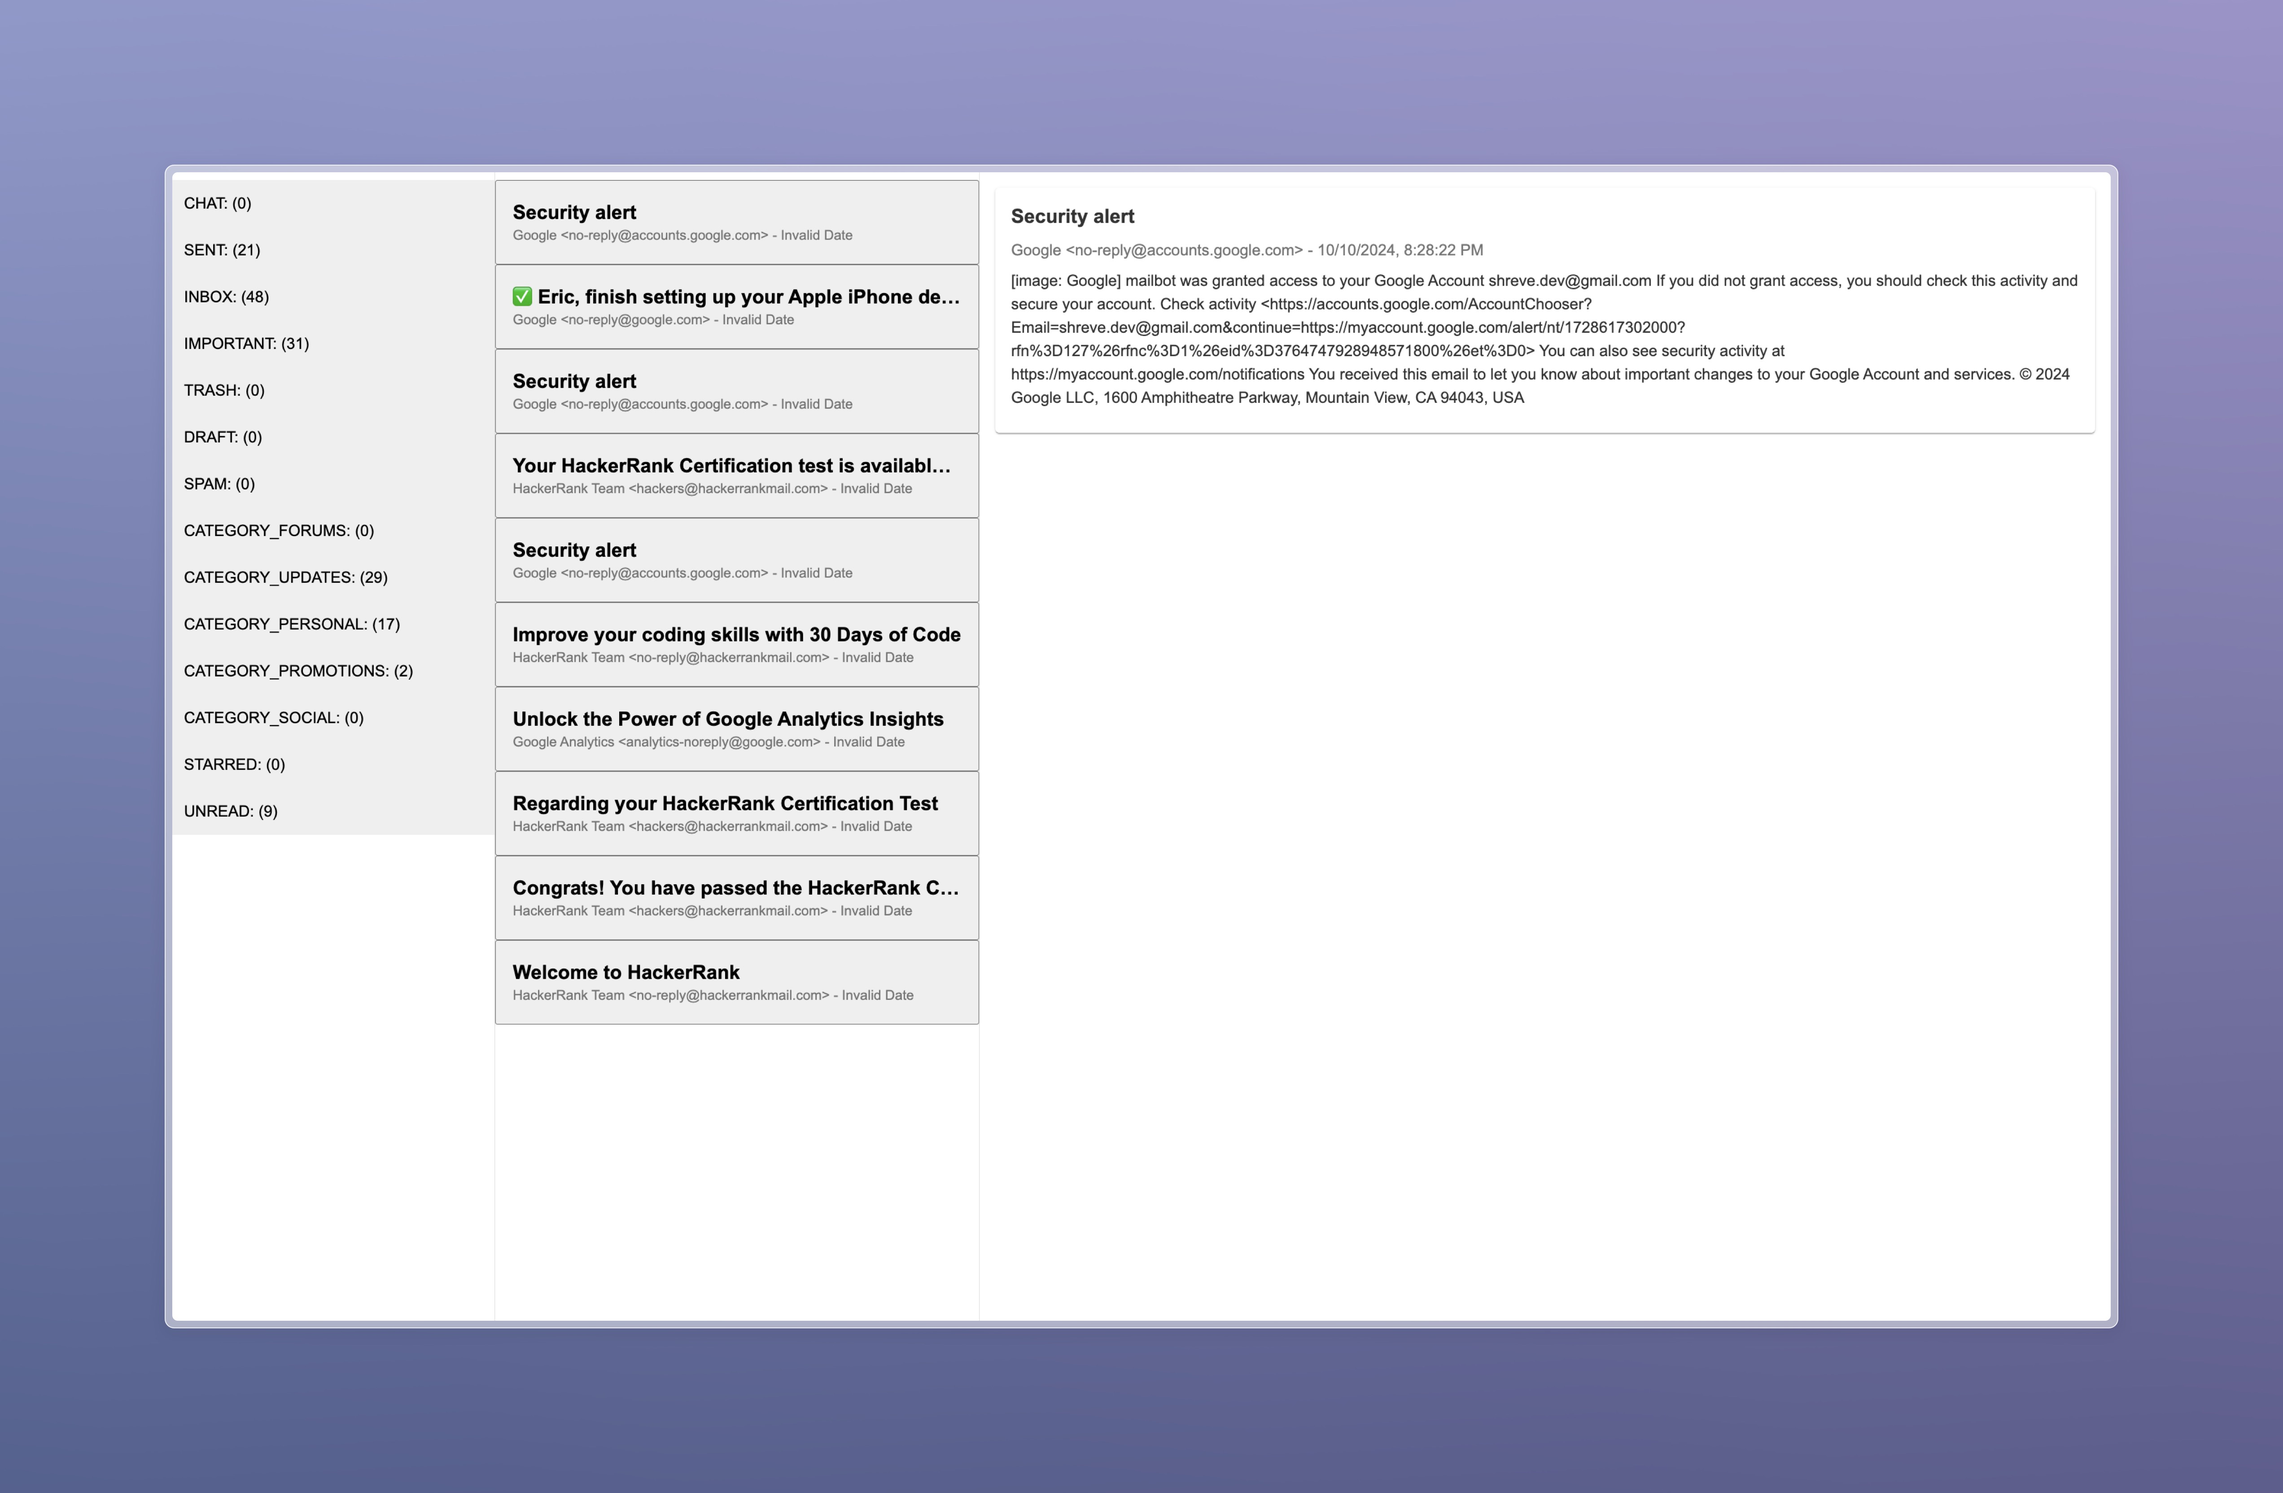
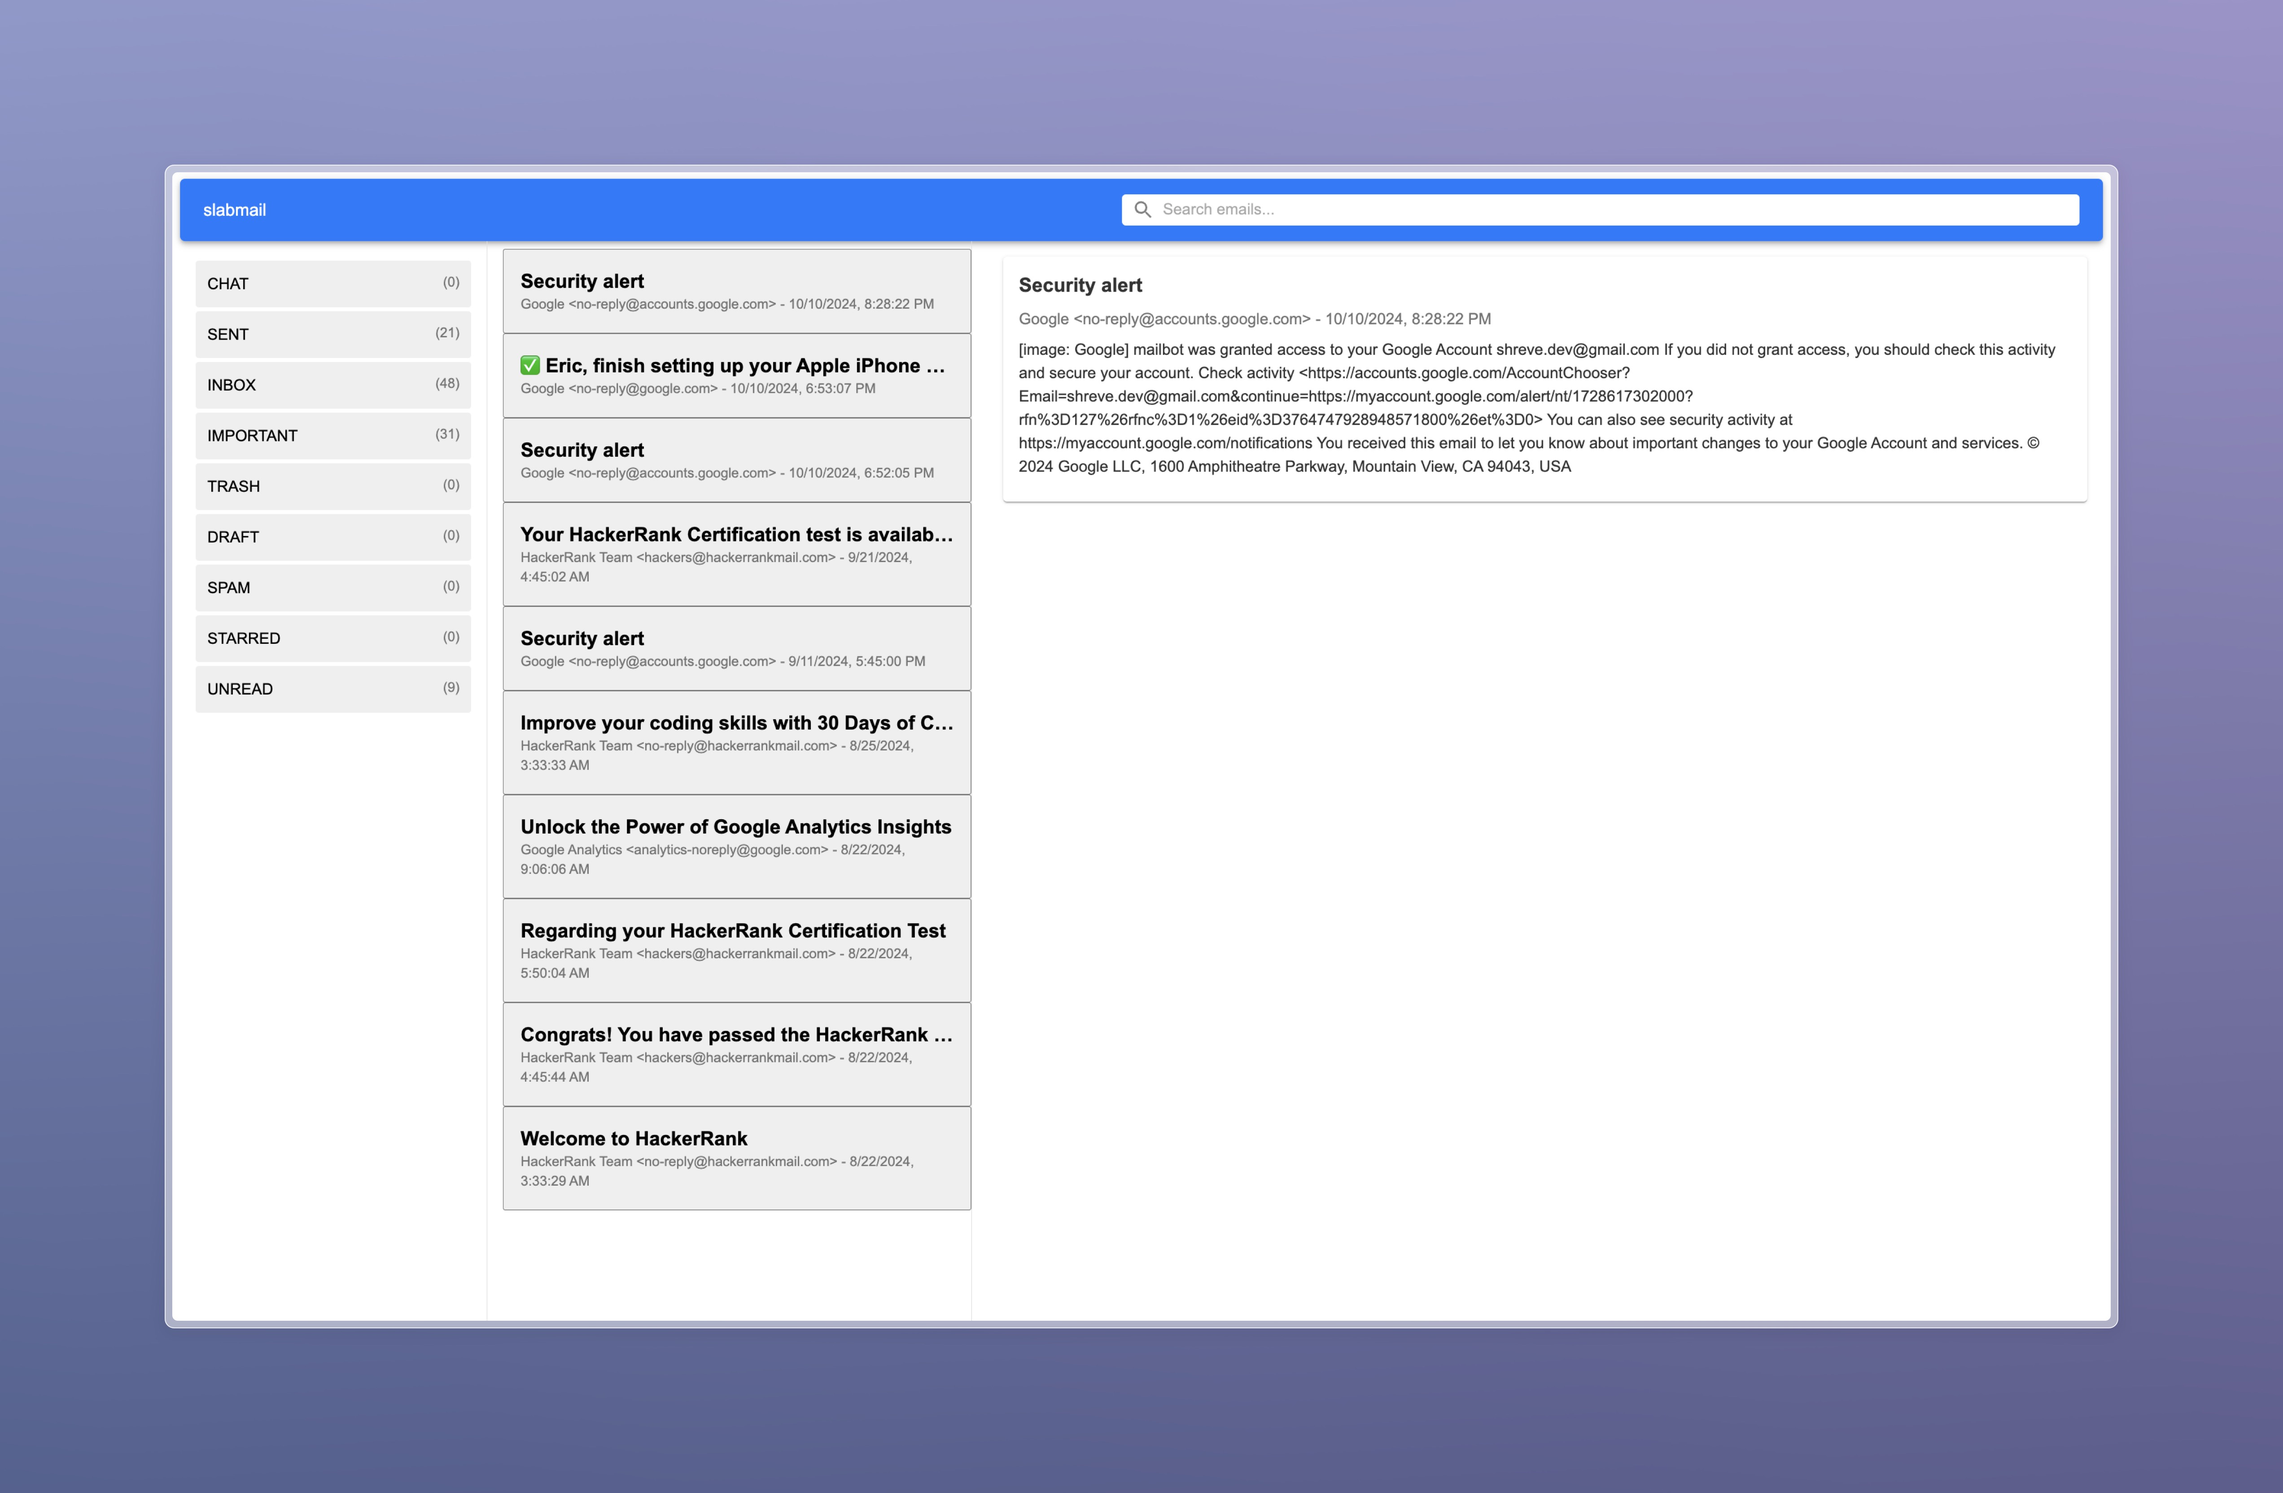
feat: star and unstar messages

Changed region(s): [[0.0625, 0.0938, 0.9375, 0.8125], [0.375, 0.75, 0.4062, 0.7812]]

diff --git a/client/src/pages/Inbox.tsx b/client/src/pages/Inbox.tsx
@@ -6,7 +6,7 @@ import LabelList from '../components/label/LabelList';
 import ErrorComponent from '../components/shared/ErrorComponent';
 import Header from '../components/shared/Header';
 import LoadingSpinner from '../components/shared/LoadingSpinner';
-import { fetchEmails, fetchLabels } from '../services/emailService'; // API service
+import { fetchEmails, fetchLabels, updateStarredLabel } from '../services/emailService'; // API service
 import { Email } from '../types/Email';
 import { Label } from '../types/Label';
 
@@ -16,7 +16,6 @@ const Inbox: React.FC = () => {
   const [loading, setLoading] = useState(true);
   const [error, setError] = useState<string | null>(null);
   const [selectedEmail, setSelectedEmail] = useState<Email | null>(null); // Track selected email
-  const [selectedLabel, setSelectedLabel] = useState<Label | null>(null); // Track selected label
 
   useEffect(() => {
     const getLabelsAndEmails = async () => {
@@ -35,18 +34,35 @@ const Inbox: React.FC = () => {
     getLabelsAndEmails();
   }, []); // Run once on mount
 
-  // Handle label click (when the user selects a label)
-  const handleLabelClick = (labelId: string) => {
-    const label = labels.find((l) => l.id === labelId); // Find the selected label by ID
-    if (label) {
-      setSelectedLabel(label); // Update the selected label
-    }
-  };
-
   const handleEmailClick = (emailId: string) => {
     const email = emails.find((e) => e.id === emailId); // Find the selected email by ID
     if (email) {
       setSelectedEmail(email);
+    }
+  };
+
+// Function to toggle the star status and update the backend
+const handleToggleStar = async (emailId: string) => {
+  try {
+    const email = emails.find((e) => e.id === emailId);
+    const isStarred = email?.labelIds.includes('STARRED');
+    const updatedEmail = await updateStarredLabel(emailId, !isStarred); // API call to update the backend
+
+    // Update the email list state to reflect the new star status
+    setEmails((prevEmails) =>
+      prevEmails.map((email) =>
+        email.id === emailId ? { ...email, labelIds: updatedEmail.labelIds } : email
+      )
+    );
+
+    setLabels((prevLabels) =>
+      prevLabels.map((label) =>
+        label.id === 'STARRED' ? { ...label, messagesTotal: label.messagesTotal + (isStarred ? -1 : 1) } : label
+      )
+    );
+  } catch (error) {
+    console.error('Failed to update star status:', error);
+    // Optionally handle error (e.g., rollback the UI change or show a message)
     }
   };
 
@@ -59,12 +75,12 @@ const Inbox: React.FC = () => {
       <Grid container display="flex" height="100vh" spacing={2}>
         {/* Left Column: Label List */}
         <Grid size={2} sx={{ borderRight: '1px solid #e0e0e0', height: '100vh', overflowY: 'auto', padding: '16px' }}>
-          <LabelList labels={labels} onLabelClick={handleLabelClick} />
+          <LabelList labels={labels} />
         </Grid>
 
         {/* Left Column: Email List */}
         <Grid size={3} sx={{ borderRight: '1px solid #e0e0e0', height: '100vh', overflowY: 'auto' }}>
-          <EmailList emails={emails} onEmailClick={handleEmailClick} />
+          <EmailList emails={emails} onEmailClick={handleEmailClick} onToggleStar={handleToggleStar} />
         </Grid>
 
         {/* Right Column: Email Details */}

diff --git a/server/services/gmailService.ts b/server/services/gmailService.ts
@@ -18,8 +18,15 @@ export async function fetchLabels(auth: Auth.OAuth2Client): Promise<any[]> {
   }
 
   // Ignore labels that start with "CATEGORY_"
-  const filteredLabels = labels.filter((label) => !label.name?.startsWith("CATEGORY_"));
-  console.log("Labels:", filteredLabels.length, "filtered out:", labels.length - filteredLabels.length);
+  const filteredLabels = labels.filter(
+    (label) => !label.name?.startsWith("CATEGORY_")
+  );
+  console.log(
+    "Labels:",
+    filteredLabels.length,
+    "filtered out:",
+    labels.length - filteredLabels.length
+  );
   return filteredLabels;
 }
 
@@ -30,7 +37,10 @@ export async function fetchLabels(auth: Auth.OAuth2Client): Promise<any[]> {
  * @param {string} id The ID of the label.
  * @returns {Promise<any>} The label details.
  */
-export async function fetchLabelDetails(auth: Auth.OAuth2Client, labels: gmail_v1.Schema$Label[]): Promise<any> {
+export async function fetchLabelDetails(
+  auth: Auth.OAuth2Client,
+  labels: gmail_v1.Schema$Label[]
+): Promise<any> {
   const gmail = google.gmail({ version: "v1", auth });
   const labelDetails = await Promise.all(
     labels.map(async (label) => {
@@ -44,8 +54,11 @@ export async function fetchLabelDetails(auth: Auth.OAuth2Client, labels: gmail_v
   return labelDetails;
 }
 
-export async function fetchLabelById(auth: Auth.OAuth2Client, id: string): Promise<any> {
-  const label = await fetchLabelDetails(auth, [{id}]);
+export async function fetchLabelById(
+  auth: Auth.OAuth2Client,
+  id: string
+): Promise<any> {
+  const label = await fetchLabelDetails(auth, [{ id }]);
   return label[0];
 }
 
@@ -99,7 +112,17 @@ export async function fetchMessageDetails(
             (header) => header.name === "From"
           )?.value,
           date: msg.data.internalDate,
-          body: msg.data.payload?.parts?.find((part) => part.mimeType === "text/plain")?.body?.data && Buffer.from(msg.data.payload.parts.find((part) => part.mimeType === "text/plain")!.body!.data!, 'base64').toString('utf-8'),
+          body:
+            msg.data.payload?.parts?.find(
+              (part) => part.mimeType === "text/plain"
+            )?.body?.data &&
+            Buffer.from(
+              msg.data.payload.parts.find(
+                (part) => part.mimeType === "text/plain"
+              )!.body!.data!,
+              "base64"
+            ).toString("utf-8"),
+          labelIds: msg.data.labelIds,
         };
       })
     );
@@ -112,7 +135,27 @@ export async function fetchMessageDetails(
   }
 }
 
-export async function fetchMessageById(auth: Auth.OAuth2Client, id: string): Promise<any> {
-  const messages = await fetchMessageDetails(auth, [{id}]);
+export async function fetchMessageById(
+  auth: Auth.OAuth2Client,
+  id: string
+): Promise<any> {
+  const messages = await fetchMessageDetails(auth, [{ id }]);
   return messages[0];
+}
+
+export async function toggleStarEmail(
+  auth: Auth.OAuth2Client,
+  id: string,
+  star: boolean
+): Promise<any> {
+  const gmail = google.gmail({ version: "v1", auth });
+  const res = await gmail.users.messages.modify({
+    userId: "me",
+    id: id,
+    requestBody: {
+      addLabelIds: star ? ["STARRED"] : [],
+      removeLabelIds: star ? [] : ["STARRED"],
+    },
+  });
+  return res.data;
 }

diff --git a/client/src/components/email/EmailItem.tsx b/client/src/components/email/EmailItem.tsx
@@ -1,23 +1,28 @@
 // /components/Email/EmailItem.tsx
 
-import { ListItem, ListItemText } from '@mui/material';
-import React from 'react';
+import { Star, StarOutline } from '@mui/icons-material';
+import { ListItem, ListItemIcon, ListItemText } from '@mui/material';
+import React, { useState } from 'react';
 import theme from '../../styles/theme';
 import { Email } from '../../types/Email';
+
 
 interface EmailItemProps {
   email: Email;
   onClick: () => void;
+  onToggleStar: (id: string) => void;
 }
 
-const EmailItem: React.FC<EmailItemProps> = ({ email, onClick }) => (
-  <ListItem
+const EmailItem: React.FC<EmailItemProps> = ({ email, onClick, onToggleStar }) => {
+  const [isStarred, setIsStarred] = useState(email.labelIds.includes('STARRED'));
+  return (
+    <ListItem
     component="button"
     onClick={onClick}
     sx={{
       padding: '12px 16px',
       '&:hover': {
-        backgroundColor: theme.palette.action.hover, 
+        backgroundColor: theme.palette.action.hover,
       },
       '&:focus': {
         outline: `2px solid ${theme.palette.action.focus}`,
@@ -44,8 +49,17 @@ const EmailItem: React.FC<EmailItemProps> = ({ email, onClick }) => (
       }}
       primary={email.subject}
       secondary={`${email.sender} - ${new Date(parseInt(email.date)).toLocaleString()}`}
+      
     />
-  </ListItem>
-);
+    <ListItemIcon sx={{ minWidth: 'auto' }} onClick={() => {
+        onToggleStar(email.id);
+        setIsStarred(!isStarred);
+      }}
+    >
+      {isStarred ? <Star sx={{ '&:hover': { color: theme.palette.primary.main } }} /> : <StarOutline sx={{ '&:hover': { color: theme.palette.secondary.main } }} />}
+      </ListItemIcon>
+    </ListItem>
+  );
+};
 
-export default EmailItem;
+export default EmailItem; 

diff --git a/server/auth.ts b/server/auth.ts
@@ -3,7 +3,7 @@ import { promises as fs } from "fs";
 import { Auth, google } from "googleapis";
 import path from "path";
 
-const SCOPES = ["https://www.googleapis.com/auth/gmail.readonly"];
+const SCOPES = ["https://www.googleapis.com/auth/gmail.readonly", "https://www.googleapis.com/auth/gmail.modify"];
 const TOKEN_PATH = path.join(process.cwd(), "../config/token.json");
 const CREDENTIALS_PATH = path.join(process.cwd(), "../config/credentials.json");
 
@@ -16,6 +16,9 @@ export async function loadSavedCredentialsIfExist(): Promise<Auth.OAuth2Client |
   try {
     const content = await fs.readFile(TOKEN_PATH, "utf-8");
     const credentials = JSON.parse(content);
+    if (!credentials.refresh_token) {
+      return null;
+    }
     return google.auth.fromJSON(credentials) as Auth.OAuth2Client;
   } catch (err) {
     return null;
@@ -48,9 +51,11 @@ export async function saveCredentials(client: Auth.OAuth2Client): Promise<void> 
  */
 export async function authorize(): Promise<Auth.OAuth2Client> {
   let client = await loadSavedCredentialsIfExist();
-  if (client) {
+  if (client !== null) {
+    console.log("Loaded existing credentials");
     return client;
   }
+  console.log("No saved credentials found, requesting authorization...");
   client = (await authenticate({
     scopes: SCOPES,
     keyfilePath: CREDENTIALS_PATH,

diff --git a/server/routes/emailRoutes.ts b/server/routes/emailRoutes.ts
@@ -1,6 +1,6 @@
 import express from "express";
 import { authorize } from "../auth";
-import { fetchLabelDetails, fetchLabels, fetchMessageById, fetchMessageDetails, listEmails } from "../services/gmailService";
+import { fetchLabelDetails, fetchLabels, fetchMessageById, fetchMessageDetails, listEmails, toggleStarEmail } from "../services/gmailService";
 
 const router = express.Router();
 
@@ -25,6 +25,19 @@ router.get("/emails/:id", async (req, res) => {
   } catch (error) {
     console.error(error);
     res.status(500).send("An error occurred while fetching the email.");
+  }
+});
+
+router.patch("/emails/:id/star", async (req, res) => {
+  try {
+    const { id } = req.params;
+    const { star } = req.query
+    const auth = await authorize();
+    const result = await toggleStarEmail(auth, id, star !== undefined);
+    res.status(200).json(result);
+  } catch (error) {
+    console.error(error);
+    res.status(500).send("An error occurred while starring the email.");
   }
 });
 

diff --git a/client/src/components/email/EmailList.tsx b/client/src/components/email/EmailList.tsx
@@ -7,13 +7,14 @@ import EmailItem from './EmailItem';
 interface EmailListProps {
   emails: Email[];
   onEmailClick: (id: string) => void;
+  onToggleStar: (id: string) => void;
 }
 
-const EmailList: React.FC<EmailListProps> = ({ emails, onEmailClick }) => {
+const EmailList: React.FC<EmailListProps> = ({ emails, onEmailClick, onToggleStar }) => {
   return (
     <List>
       {emails.map((email) => (
-        <EmailItem key={email.id} email={email} onClick={() => onEmailClick(email.id)} />
+        <EmailItem key={email.id} email={email} onClick={() => onEmailClick(email.id)} onToggleStar={onToggleStar}/>
       ))}
     </List>
   );

diff --git a/client/src/components/label/LabelList.tsx b/client/src/components/label/LabelList.tsx
@@ -6,18 +6,13 @@ import LabelItem from './LabelItem';
 
 interface LabelListProps {
   labels: Label[];
-  onLabelClick: (labelId: string) => void;
 }
 
-const LabelList: React.FC<LabelListProps> = ({ labels, onLabelClick }) => {
+const LabelList: React.FC<LabelListProps> = ({ labels }) => {
   return (
     <List sx={{ padding: 0, borderRadius: '3px' }}>
       {labels.map((label) => (
-        <LabelItem
-          key={label.id}
-          label={label}
-          onLabelClick={onLabelClick}
-        />
+        <LabelItem key={label.id} label={label} />
       ))}
     </List>
   );

diff --git a/client/src/components/label/LabelItem.tsx b/client/src/components/label/LabelItem.tsx
@@ -3,14 +3,12 @@ import theme from "../../styles/theme";
 import { Label } from "../../types/Label";
 interface LabelItemProps {
   label: Label;
-  onLabelClick: (labelId: string) => void;
 }
 
-export default function LabelItem({ label, onLabelClick }: LabelItemProps) {
+export default function LabelItem({ label }: LabelItemProps) {
   return (
     <ListItem
       component="button"
-      onClick={() => onLabelClick(label.id)}
       sx={{
         padding: '8px 12px',
         margin: '4px 0',

diff --git a/client/src/services/emailService.ts b/client/src/services/emailService.ts
@@ -39,3 +39,10 @@ export const fetchLabels = async (): Promise<Label[]> => {
   handleError(response);
   return response.json();
 };
+
+// Star an email
+export const updateStarredLabel = async (id: string, star: boolean): Promise<Email> => {
+  const response = await fetch(`${BASE_URL}/emails/${id}/star${star ? "?star=true" : ""}`, { method: "PATCH" });
+  handleError(response);
+  return response.json();
+};

diff --git a/server/server.ts b/server/server.ts
@@ -2,7 +2,6 @@
 import cors from "cors";
 import express from "express";
 import emailRoutes from "./routes/emailRoutes";
-
 const app = express();
 const PORT = 3000;
 

diff --git a/client/src/types/Email.ts b/client/src/types/Email.ts
@@ -4,4 +4,6 @@ export interface Email {
   body: string;
   sender: string;
   date: string;
+  labelIds: string[];
+  isStarred: boolean;
 }
